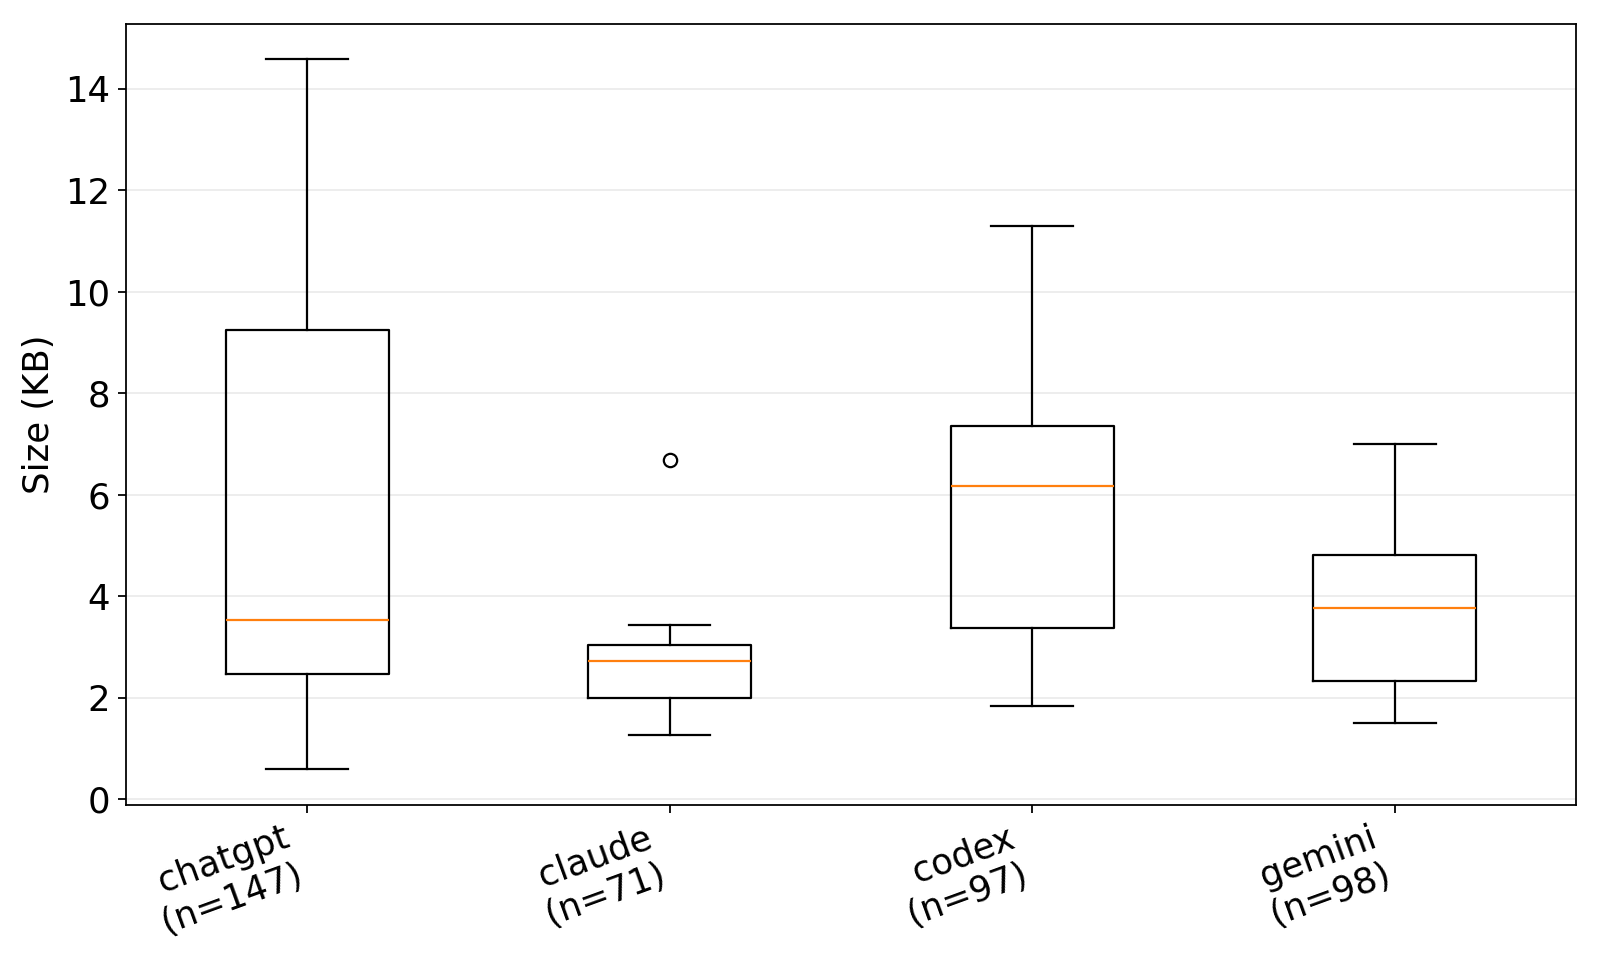
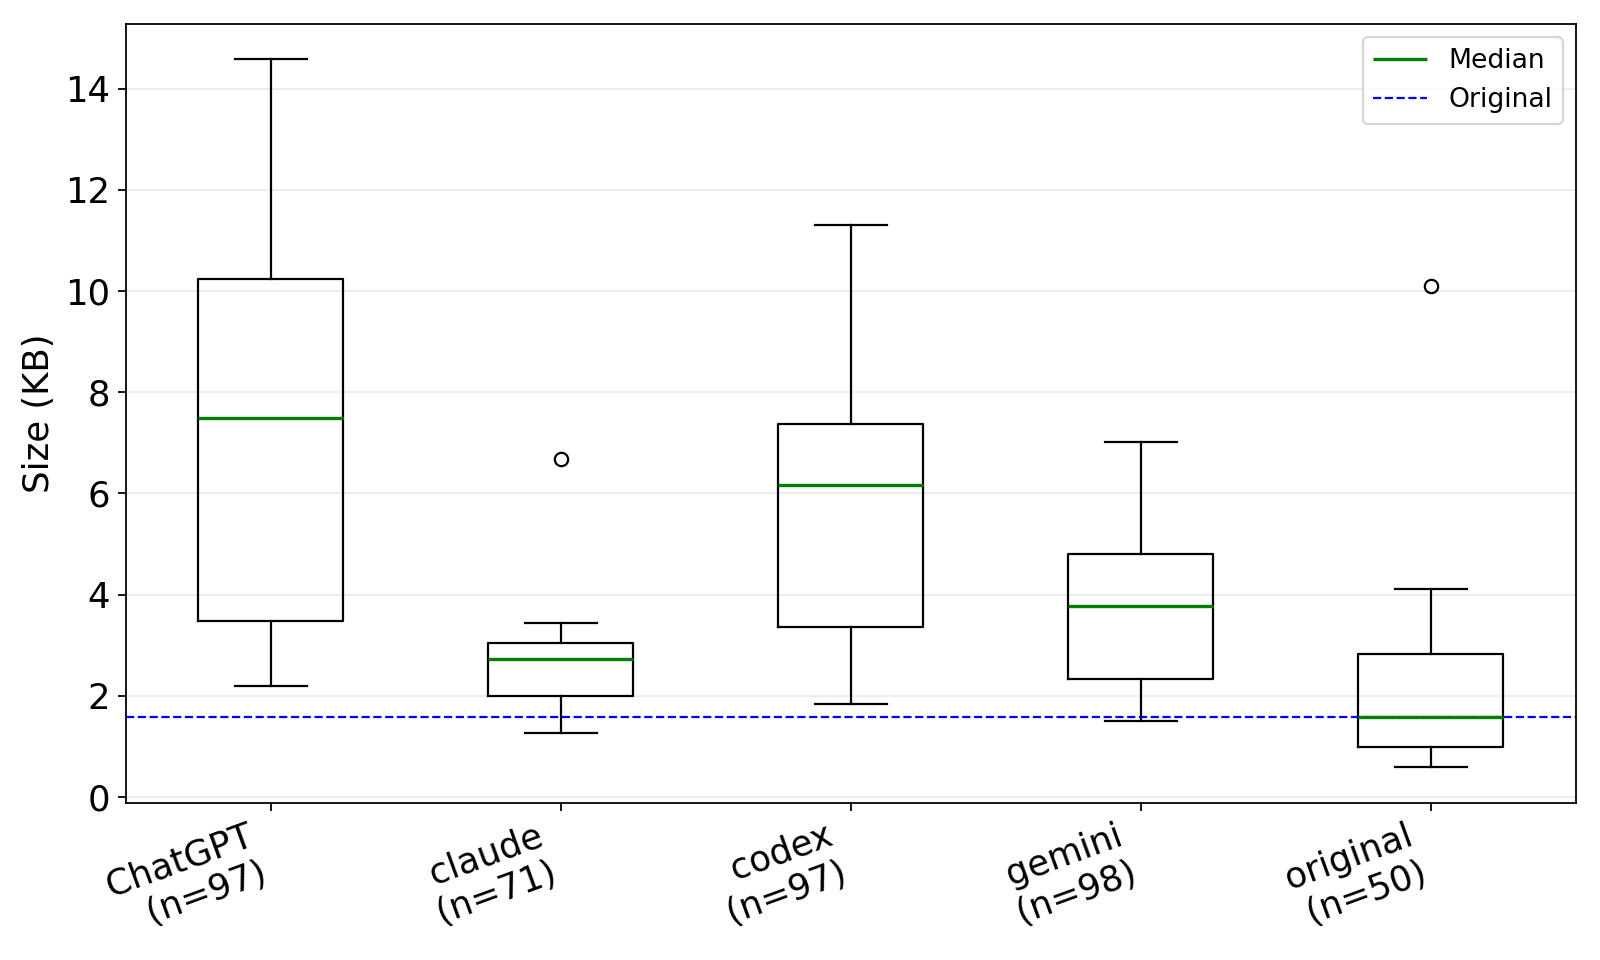
change figure styling

diff --git a/scripts/analyse_file_sizes.py b/scripts/analyse_file_sizes.py
@@ -280,6 +280,22 @@ def collect_group_sizes(records: List[SizeRecord], key):
     return grouped
 
 
+def llm_plot_group(record: SizeRecord) -> str:
+    if record.mode == "original":
+        return "original"
+    return record.llm
+
+
+def llm_plot_sort_key(label: str) -> tuple[int, str]:
+    if label == "original":
+        return (1, label)
+    return (0, label)
+
+
+def llm_plot_label(label: str) -> str:
+    return "ChatGPT" if label == "chatgpt" else label
+
+
 def group_stats_to_rows(group_name: str, grouped: Dict[str, List[int]]) -> List[Dict[str, str]]:
     rows = []
     for group_key, vals in sorted(grouped.items(), key=lambda kv: (str(kv[0]))):
@@ -354,28 +370,86 @@ def plot_box_by_group(records: List[SizeRecord], output_path: Path, by: str) -> 
         #title = "File size by mode"
         x_labels = [f"{label} (n={len(g)})" for label, g in zip(labels, groups)]
         fig, ax = plt.subplots(figsize=(10, 6))
+        legend_handles = []
+        legend_labels = []
         if any(groups):
-            ax.boxplot([g for g in groups if g], labels=[x for g, x in zip(groups, x_labels) if g])
+            bp = ax.boxplot(
+                [g for g in groups if g],
+                labels=[x for g, x in zip(groups, x_labels) if g],
+                medianprops={"color": "green", "linewidth": 1.5},
+            )
+            legend_handles.append(bp["medians"][0])
+            legend_labels.append("Median")
+        original_sizes = [normalize_size(r.size_bytes) for r in records if r.mode == "original"]
+        if original_sizes:
+            original_median = median(original_sizes)
+            original_line = ax.axhline(
+                original_median,
+                color="blue",
+                linestyle="--",
+                linewidth=1.0,
+                label="Original",
+            )
+            legend_handles.append(original_line)
+            legend_labels.append("Original")
+        visible_groups = [g for g in groups if g]
+        if visible_groups:
             ax.set_xticks(range(1, 1 + len([g for g in groups if g])))
             ax.set_xticklabels([x for g, x in zip(groups, x_labels) if g], rotation=20, ha="right")
        # ax.set_title(title)
         ax.set_ylabel("Size (KB)")
         ax.grid(axis="y", alpha=0.25)
+        if legend_handles:
+            ax.legend(
+                legend_handles,
+                legend_labels,
+                frameon=True,
+                loc="upper right",
+                fontsize=12,
+            )
         fig.tight_layout()
         fig.savefig(path, dpi=160)
         plt.close(fig)
         return [path]
 
-    llms = sorted({r.llm for r in records})
+    llms = sorted({llm_plot_group(r) for r in records}, key=llm_plot_sort_key)
     path = output_path / "boxplot_size_by_llm.png"
-    groups = [[normalize_size(r.size_bytes) for r in records if r.llm == llm] for llm in llms]
+    groups = [[normalize_size(r.size_bytes) for r in records if llm_plot_group(r) == llm] for llm in llms]
     fig, ax = plt.subplots(figsize=(max(10, 1.5 * len(llms)), 6))
+    legend_handles = []
+    legend_labels = []
     if any(groups):
-        ax.boxplot(groups, labels=llms)
+        bp = ax.boxplot(
+            groups,
+            labels=[llm_plot_label(llm) for llm in llms],
+            medianprops={"color": "green", "linewidth": 1.5},
+        )
+        legend_handles.append(bp["medians"][0])
+        legend_labels.append("Median")
+    original_sizes = [normalize_size(r.size_bytes) for r in records if llm_plot_group(r) == "original"]
+    if original_sizes:
+        original_median = median(original_sizes)
+        original_line = ax.axhline(
+            original_median,
+            color="blue",
+            linestyle="--",
+            linewidth=1.0,
+            label="Original",
+        )
+        legend_handles.append(original_line)
+        legend_labels.append("Original")
     #ax.set_title("File size by LLM")
     ax.set_ylabel("Size (KB)")
-    ax.set_xticklabels([f"{llm}\n(n={len(g)})" for llm, g in zip(llms, groups)], rotation=20, ha="right")
+    ax.set_xticklabels([f"{llm_plot_label(llm)}\n(n={len(g)})" for llm, g in zip(llms, groups)], rotation=20, ha="right")
     ax.grid(axis="y", alpha=0.25)
+    if legend_handles:
+        ax.legend(
+            legend_handles,
+            legend_labels,
+            frameon=True,
+            loc="upper right",
+            fontsize=12,
+        )
     fig.tight_layout()
     fig.savefig(path, dpi=160)
     plt.close(fig)
